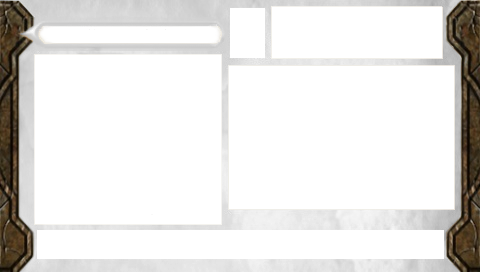
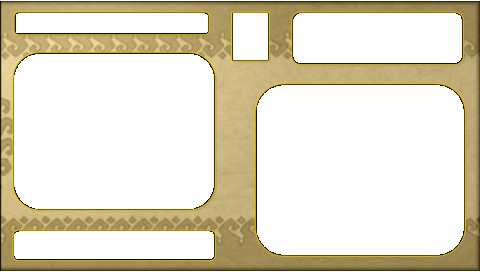
added border to extra details popup as per design at http://wololo.net/forum/viewtopic.php?f=37&t=2380 and http://wololo.net/forum/viewtopic.php?f=37&t=2382

diff --git a/projects/mtg/src/SimplePopup.cpp b/projects/mtg/src/SimplePopup.cpp
@@ -16,12 +16,14 @@
 SimplePopup::SimplePopup(int id, JGuiListener* listener, const int fontId, const char * _title, DeckMetaData* deckMetaData, MTGAllCards * collection) :
     JGuiController(id, listener), mFontId(fontId), mCollection(collection)
 {
-    mX = 35;
-    mY = 50;
+    mX = 18;
+    mY = 66;
+	mWidth = 180.0f;
     mTitle = _title;
-    mMaxLines = 10;
+    mMaxLines = 11;
+
     mTextFont = resources.GetWFont(fontId);
-    this->mCount = 1;
+    this->mCount = 1; // a hack to ensure the menus do book keeping correctly.  Since we aren't adding items to the menu, this is required
     mStatsWrapper = NULL;
     Update(deckMetaData);
 }
@@ -34,14 +36,41 @@ void SimplePopup::Render()
     string detailedInformation = getDetailedInformation(mDeckInformation->getFilename());
 
     mTextFont->SetScale(0.85f);
-    const float textWidth = 183.0f;
-    const float textHeight = mTextFont->GetHeight() * 10;
-    r->DrawRoundRect(mX, mY, textWidth, textHeight, 2.0f, ARGB( 255, 125, 255, 0) );
-    r->FillRoundRect(mX, mY, textWidth, textHeight, 2.0f, ARGB( 255, 0, 0, 0 ) );
+    const float textHeight = mTextFont->GetHeight() * mMaxLines;
+    r->DrawRoundRect(mX, mY, mWidth, textHeight, 2.0f, ARGB( 255, 125, 255, 0) );
+    r->FillRoundRect(mX, mY, mWidth, textHeight, 2.0f, ARGB( 255, 0, 0, 0 ) );
 
-    mTextFont->DrawString(detailedInformation.c_str(), mX + 20 , mY + 10);
+    drawBoundingBox( mX, mY, mWidth, textHeight );
+
+    mTextFont->DrawString(detailedInformation.c_str(), mX + 20 , mY + 15);
 
 }
+
+void SimplePopup::drawBoundingBox( float x, float y, float width, float height )
+{
+    JRenderer *r = JRenderer::GetInstance();
+
+    //draw the corners
+    string topCornerImageName = "top_corner.png";
+    string bottomCornerImageName = "bottom_corner.png";
+	string verticalBarImageName = "vert_bar.png";
+    string horizontalBarImageName = "top_bar.png";
+
+	const float boxWidth	= ( width + 15 ) / 3.0f;
+	const float boxHeight = ( height + 15 ) / 3.0f;
+
+	drawHorzPole( horizontalBarImageName, false, false, x, y, boxWidth );
+	drawHorzPole( horizontalBarImageName, false, true, x, y + height, boxWidth );
+	
+	drawVertPole( verticalBarImageName, false, false, x, y, boxHeight );
+	drawVertPole( verticalBarImageName, true, false, x + width, y, boxHeight );
+
+	drawCorner( topCornerImageName, false, false, x, y );
+	drawCorner( topCornerImageName, true, false, x + width, y );
+	drawCorner( bottomCornerImageName, false, false, x, y + height );
+	drawCorner( bottomCornerImageName, true, false, x + width, y + height );
+}
+
 void SimplePopup::Update(DeckMetaData* selectedDeck)
 {
     mDeckInformation = selectedDeck;
@@ -91,6 +120,38 @@ string SimplePopup::getDetailedInformation(string filename)
     CheckUserInput(key);
 }
 
+// drawing routines
+void SimplePopup::drawCorner(string imageName, bool flipX, bool flipY, float x, float y)
+{
+    JRenderer* r = JRenderer::GetInstance();
+    JQuad *horizontalBarImage = resources.RetrieveTempQuad( imageName, TEXTURE_SUB_5551);
+	horizontalBarImage->SetHFlip(flipX);
+	horizontalBarImage->SetVFlip(flipY);
+
+	r->RenderQuad( horizontalBarImage, x, y);
+}
+
+void SimplePopup::drawHorzPole(string imageName, bool flipX = false, bool flipY = false, float x = 0, float y = 0, float width = SCREEN_WIDTH_F)
+{
+    JRenderer* r = JRenderer::GetInstance();
+    JQuad *horizontalBarImage = resources.RetrieveTempQuad( imageName, TEXTURE_SUB_5551);
+	horizontalBarImage->SetHFlip(flipX);
+	horizontalBarImage->SetVFlip(flipY);
+
+	r->RenderQuad( horizontalBarImage, x, y, 0, width );
+}
+
+void SimplePopup::drawVertPole(string imageName, bool flipX = false, bool flipY = false, float x = 0, float y = 0, float height = SCREEN_HEIGHT_F)
+{
+    JRenderer* r = JRenderer::GetInstance();
+    JQuad *verticalBarImage = resources.RetrieveTempQuad( imageName, TEXTURE_SUB_5551);
+	verticalBarImage->SetHFlip(flipX);
+	verticalBarImage->SetVFlip(flipY);
+
+	r->RenderQuad( verticalBarImage, x, y, 0, 1.0f, height);
+}
+
+
 void SimplePopup::Close()
 {
     mClosed = true;
@@ -104,12 +165,3 @@ SimplePopup::~SimplePopup(void)
     SAFE_DELETE(mStatsWrapper);
 }
 
-void SimplePopup::drawHorzPole(float x, float y, float width)
-{
-
-}
-
-void SimplePopup::drawVertPole(float x, float y, float height)
-{
-
-}

diff --git a/projects/mtg/src/DeckMenu.cpp b/projects/mtg/src/DeckMenu.cpp
@@ -15,9 +15,12 @@ namespace
     const float kVerticalMargin = 16;
     const float kHorizontalMargin = 20;
     const float kLineHeight = 20;
-    const float kDescriptionVerticalBoxPadding = 5;
+	const float kDescriptionVerticalBoxPadding = 5;
     const float kDescriptionHorizontalBoxPadding = 5;
-    const float kMenuFontScale = 1.0f;
+	
+	const float kDescriptiveTextFontScale = 0.85f;
+    const float kDefaultFontScale = 1.0f;
+
     const int DETAILED_INFO_THRESHOLD = 20;
 }
 
@@ -39,16 +42,16 @@ JGuiController(id, listener), fontId(fontId), mShowDetailsScreen( showDetailsOve
     backgroundName = "DeckMenuBackdrop";
     mAlwaysShowDetailsButton = false;
     mSelectedDeck = NULL;
-    mY = 55;
+    mY = 50;
     mWidth = 176;
-    mX = 125;
+    mX = 110;
 
-    titleX = 130; // center point in title box
-    titleY = 28;
+    titleX = 110; // center point in title box
+    titleY = 15;
     titleWidth = 180; // width of inner box of title
 
-    descX = 230 + kDescriptionVerticalBoxPadding;
-    descY = 65 + kDescriptionHorizontalBoxPadding;
+    descX = 260 + kDescriptionVerticalBoxPadding;
+    descY = 100 + kDescriptionHorizontalBoxPadding;
     descHeight = 145;
     descWidth = 220;
 
@@ -56,20 +59,20 @@ JGuiController(id, listener), fontId(fontId), mShowDetailsScreen( showDetailsOve
     detailedInfoBoxY = 235;
     starsOffsetX = 50;
 
-    statsX = 280;
-    statsY = 8;
+    statsX = 300;
+    statsY = 15;
     statsHeight = 50;
     statsWidth = 227;
 
     mSelectedDeckId = startIndex;
 
-    avatarX = 230;
-    avatarY = 8;
+    avatarX = 232;
+    avatarY = 11;
 
     menuInitialized = false;
 
-    float scrollerWidth = 80;
-    mScroller = NEW TextScroller(Fonts::MAIN_FONT, 40, 230, scrollerWidth, 100, 1, 1);
+    float scrollerWidth = 60;
+    mScroller = NEW TextScroller(Fonts::MAIN_FONT, 20, 235, scrollerWidth, 100, 1, 1);
 
     mAutoTranslate = true;
     maxItems = 7;
@@ -189,7 +192,6 @@ void DeckMenu::Render()
                 mSelectedDeck = currentMenuItem->meta;
 
                 WFont *mainFont = resources.GetWFont(Fonts::MAIN_FONT);
-
                 // display the "more info" button if special condition is met
                 if (showDetailsScreen())
                 {                    
@@ -212,6 +214,7 @@ void DeckMenu::Render()
                 }
                 // fill in the description part of the screen
                 string text = currentMenuItem->desc;
+				mainFont->SetScale(kDescriptiveTextFontScale);
                 mainFont->DrawString(text.c_str(), descX, descY);
                 mFont->SetColor(ARGB(255,255,255,255));
 
@@ -229,22 +232,22 @@ void DeckMenu::Render()
             {
                 mFont->SetColor(ARGB(150,255,255,255));
             }
-            mFont->SetScale(kMenuFontScale);
+			mFont->SetScale(kDefaultFontScale);
             currentMenuItem->RenderWithOffset(-kLineHeight * startId);
         }
     }
 
     RenderBackground();
 
-    if (!title.empty())
+    mFont->SetScale(kDescriptiveTextFontScale);
+    mScroller->Render();
+	mFont->SetScale(kDefaultFontScale);
+    
+	if (!title.empty())
     {
         mFont->SetColor(ARGB(255,255,255,255));
-        mFont->SetScale(titleFontScale);
         mFont->DrawString(title.c_str(), titleX, titleY, JGETEXT_CENTER);
     }
-    mFont->SetScale(1.0f);
-    mScroller->Render();
-
 }
 
 void DeckMenu::Update(float dt)

diff --git a/projects/mtg/src/GameState.cpp b/projects/mtg/src/GameState.cpp
@@ -50,31 +50,31 @@ vector<DeckMetaData *> GameState::getValidDeckMetaData(const string& path, const
         std::ostringstream filename;
         filename << path << "/deck" << nbDecks << ".txt";
         DeckMetaData * meta = metas->get(filename.str(), statsPlayer);
+		string deckStatsFileName;
         if (meta)
         {
             found = 1;
             if (statsPlayer)
             {
-                std::ostringstream smallDeckName;
-                smallDeckName << smallDeckPrefix << "_deck" << nbDecks;
-                meta->loadStatsForPlayer(statsPlayer, smallDeckName.str());
+                std::ostringstream aiStatsDeckName;
+                aiStatsDeckName << smallDeckPrefix << "_deck" << nbDecks;
+				deckStatsFileName = aiStatsDeckName.str();
             }
             else
             {
                 std::ostringstream playerStatsDeckName;
                 playerStatsDeckName << "stats/player_deck" << nbDecks << ".txt";
-                string deckstats = options.profileFile(playerStatsDeckName.str());
-                meta->loadStatsForPlayer(NULL, deckstats);
+                deckStatsFileName = options.profileFile(playerStatsDeckName.str());
             }
 
+			meta->loadStatsForPlayer(statsPlayer, deckStatsFileName);
             retList.push_back(meta);
             nbDecks++;
         }
         meta = NULL;
     }
 
-    std::sort(retList.begin(), retList.end(), sortByName);
-
+	std::sort(retList.begin(), retList.end(), sortByName);
     return retList;
 
 }
@@ -101,7 +101,6 @@ void GameState::renderDeckMenu(DeckMenu * _menu, const vector<DeckMetaData *>& d
         DeckMetaData * deckMetaData = *i;
         string deckName = deckMetaData -> getName();
         string deckDescription = deckMetaData -> getDescription();
-        //int deckId = deckMetaData -> getDeckId(); //do we need this?
         _menu->Add(deckNumber++, deckName.c_str(), deckDescription.c_str(), false, deckMetaData);
     }
 }

diff --git a/projects/mtg/src/GameStateDuel.cpp b/projects/mtg/src/GameStateDuel.cpp
@@ -127,7 +127,6 @@ void GameStateDuel::Start()
             deckManager->updateMetaDataList(&playerDeckList, false);
             playerDeckList.clear();
 
-            DebugTrace("INFO: Player Deck menu has a size of " << sizeof( deckmenu ) );
             break;
         }
     }
@@ -278,7 +277,7 @@ void GameStateDuel::ensureOpponentMenu()
 {
     if (opponentMenu == NULL)
     {
-        opponentMenu = NEW DeckMenu(DUEL_MENU_CHOOSE_OPPONENT, this, Fonts::OPTION_FONT, "Choose Your Opponent",
+        opponentMenu = NEW DeckMenu(DUEL_MENU_CHOOSE_OPPONENT, this, Fonts::OPTION_FONT, "Choose Opponent",
                 GameStateDuel::selectedAIDeckId, true);
         opponentMenu->Add(MENUITEM_RANDOM_AI, "Random");
         if (options[Options::EVILTWIN_MODE_UNLOCKED].number) opponentMenu->Add(MENUITEM_EVIL_TWIN, "Evil Twin", _(
@@ -690,7 +689,7 @@ void GameStateDuel::ButtonPressed(int controllerId, int controlId)
                 break;
             }
             else if (controlId != MENUITEM_EVIL_TWIN && aiDeckSize > 0) // evil twin
-            deckNumber = deckManager->getAIDeckOrderList()->at(controlId - 1)->getDeckId();
+                deckNumber = deckManager->getAIDeckOrderList()->at(controlId - 1)->getDeckId();
             loadPlayer(1, deckNumber, 1);
             OpponentsDeckid = deckNumber;
             opponentMenu->Close();
@@ -746,7 +745,8 @@ void GameStateDuel::ButtonPressed(int controllerId, int controlId)
         if (mGamePhase == DUEL_STATE_CHOOSE_DECK1)
         {
             vector<DeckMetaData *> * playerDeck = deckManager->getPlayerDeckOrderList();
-            if (!premadeDeck && controlId > 0) deckNumber = playerDeck->at(controlId - 1)->getDeckId();
+            if (!premadeDeck && controlId > 0) 
+                deckNumber = playerDeck->at(controlId - 1)->getDeckId();
             loadPlayer(0, deckNumber);
             deckmenu->Close();
             mGamePhase = DUEL_STATE_CHOOSE_DECK1_TO_2;

diff --git a/projects/mtg/include/SimplePopup.h b/projects/mtg/include/SimplePopup.h
@@ -18,7 +18,7 @@ class SimplePopup: public JGuiController
 {
 
 private:
-    float mHeight, mWidth, mX, mY;
+    float mWidth, mX, mY;
     int mMaxLines;
     int mFontId;
     DeckMetaData * mDeckInformation;
@@ -28,8 +28,9 @@ private:
     bool mClosed;
     MTGAllCards * mCollection;
 
-    void drawHorzPole(float x, float y, float width);
-    void drawVertPole(float x, float y, float height);
+    void drawHorzPole(string imageName, bool flipX, bool flipY, float x, float y, float width);
+    void drawCorner(string imageName, bool flipX, bool flipY, float x, float y);
+    void drawVertPole(string imageName, bool flipX, bool flipY, float x, float y, float height);
 
 public:
     bool autoTranslate;
@@ -37,7 +38,7 @@ public:
 
     SimplePopup(int id, JGuiListener* listener, const int fontId, const char * _title = "", DeckMetaData* deckInfo = NULL, MTGAllCards * collection = NULL);
     ~SimplePopup(void);
-    
+    void drawBoundingBox(  float x, float y, float width, float height );
     bool isClosed() { return mClosed; }
     MTGAllCards* getCollection() { return mCollection; }
     void Render();

diff --git a/projects/mtg/include/DeckMetaData.h b/projects/mtg/include/DeckMetaData.h
@@ -32,7 +32,7 @@ public:
   DeckMetaData();
   DeckMetaData(string filename, Player * statsPlayer);
   void load(string filename);
-  void loadStatsForPlayer( Player * statsPlayer, string opponentDeckName = "" );
+  void loadStatsForPlayer( Player * statsPlayer, string deckStatsFileName = "" );
   
   // Accessors
   string getFilename();
@@ -52,6 +52,9 @@ public:
 };
 
 class DeckMetaDataList {
+private:
+  map<string,DeckMetaData *>values; 
+
 public:
   void invalidate(string filename);
   DeckMetaData * get(string filename, Player * statsPlayer = NULL);
@@ -59,8 +62,6 @@ public:
   static DeckMetaDataList * decksMetaData;
 
   
-private:
-  map<string,DeckMetaData *>values;
 };
 
 #endif

diff --git a/projects/mtg/src/MTGDeck.cpp b/projects/mtg/src/MTGDeck.cpp
@@ -259,7 +259,7 @@ int MTGAllCards::processConfLine(string &s, MTGCard *card, CardPrimitive * primi
                 }
                 else
                 {
-                    primitive->setType(val);
+                      primitive->setType(val);
                     break;
                 }
             }
